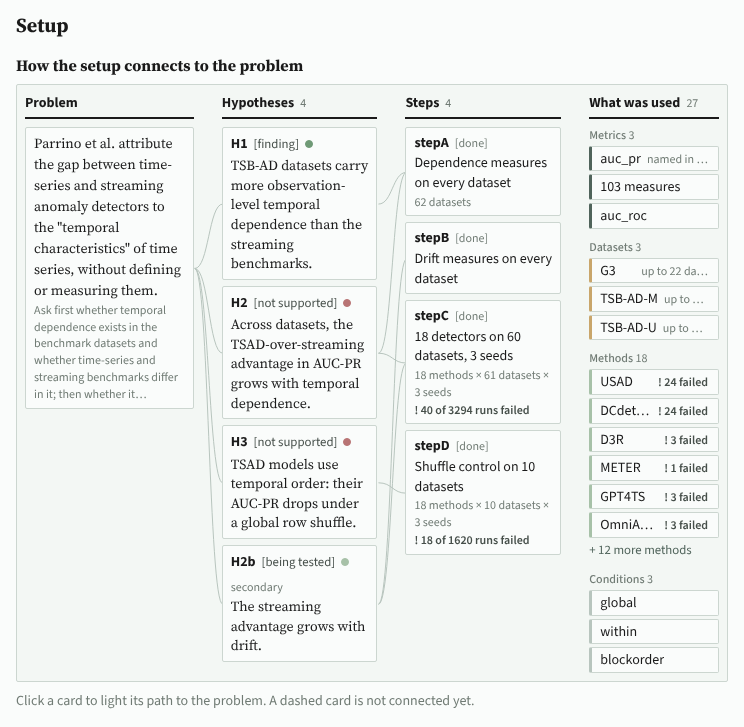
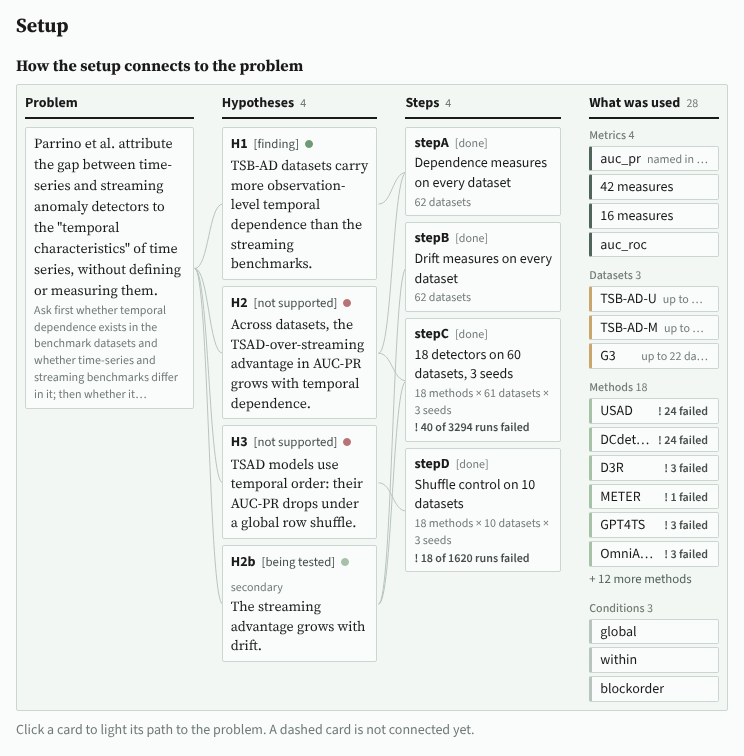
S28: the board reads compressed step tables and tidy measure columns
A step's .csv.gz / .tsv.gz deliverables are read as a stream (cut at 96 MB of text, flagged when cut).
A tidy table (a measure column beside a value column) gives the step its measure names.
Founder decisions 2026-11-18 18:22 KST: thesis-first columns kept; compressed tables read.

Claude-Session: https://claude.ai/code/session_01M9nCVFxZD6EZevdEtrvZnW

Changed region(s): [[0.0309, 0.0303, 0.9583, 0.9381], [0.0309, 0.9381, 0.6492, 0.9684], [0.5565, 0.6355, 0.7419, 0.7565]]

diff --git a/app/src/lemmata/web/research.js b/app/src/lemmata/web/research.js
@@ -1494,12 +1494,14 @@ function bdDetail(B, sel) {      // what the selected card is, in rows (an item 
     return h('section', { class: 'rx-x-sec su-detail' }, head(hf ? 'Step' : 'Experiment', bdXName(B, x), hf ? h('span', { class: 'tag' }, x.status) : SU_XTYPE[x.type] ? h('span', { class: 'tag' }, SU_XTYPE[x.type]) : null),
       h('div', { class: 'su-body' }, hf ? h('p', { class: 'su-ct' }, x.name) : null, h('div', { class: 'su-p' },
         row('Tests', cs.length ? cs.map(cBtn) : h('span', { class: 'rx-warn' }, '! No claim. What it uses does not reach the thesis yet.')),
-        U && U.rows ? row('Runs', h('span', null, plural(U.rows, dims.length ? 'run' : 'row') + (dims.length ? ': ' + dims.join(' × ') : '')), U.failed ? h('span', { class: 'rx-warn' }, '! ' + U.failed + ' marked failed in the result files') : null) : null,
+        U && U.rows && U.methods ? row('Runs', h('span', null, plural(U.rows, 'run') + ': ' + dims.join(' × ')), U.failed ? h('span', { class: 'rx-warn' }, '! ' + U.failed + ' marked failed in the result files') : null)
+          : U && U.datasets ? row('Covers', h('span', null, plural(U.datasets, 'dataset'))) : null,
         byKind(x.items),
         hf ? row('Writes', x.deliverables.length ? x.deliverables.map(d => /\.[a-z0-9]+$/i.test(d) && !/\.gz$/i.test(d) ? rxWhere({ path: d }, 'code') : h('span', { class: 'mono small' }, d)) : h('span', { class: 'muted small' }, 'nothing named yet')) : null,
         hf && x.depends_on.length ? row('Needs', x.depends_on.map(d => { const o = B.experiments.find(q => q.id === d); return o ? xBtn(o) : h('span', { class: 'mono small' }, d); })) : null,
-        hf && !x.items.length ? row('Used', h('span', { class: 'muted small' }, U && U.files ? 'Its tables name no method, dataset or metric column.' : 'No readable table among its result files (csv or tsv), so what it used is unknown.')) : null,
+        hf && !x.items.length ? row('Used', h('span', { class: 'muted small' }, U && U.files ? 'Its tables name no method, dataset or metric column.' : 'No readable table among its result files (csv or tsv, plain or .gz), so what it used is unknown.')) : null,
         hf && U && U.skipped ? row('', h('span', { class: 'muted small' }, plural(U.skipped, 'file') + ' too large to read.')) : null,
+        hf && U && U.partial ? row('', h('span', { class: 'muted small' }, plural(U.partial, 'compressed file') + ' read in part only (very large).')) : null,
         x.sheets.length ? row('Sheets', h('span', { class: 'muted small' }, plural(x.sheets.length, 'result-file sheet') + ' below ↓')) : null,
         hf ? null : row('', h('button', { class: 'btn sm', onclick: () => rxOpenExp(x.id) }, 'Open the experiment'))))); }
   const it = B.items.find(q => q.id === id), kind = BD_KIND[it.kind] || ['Items', 'item'], byX = new Map(B.experiments.map(x => [x.id, x]));

diff --git a/app/src/lemmata/engine/board.py b/app/src/lemmata/engine/board.py
@@ -7,12 +7,13 @@ setup connects to the thesis ... think of a kanban system"). Two sources, one sh
 
 - a paper project: the Setup document itself (claims, experiments and items it already holds) and the thesis text;
 - a hypothesis-first project: the problem, the hypotheses and the protocol's steps, and for each step what its own
-  result tables name (a "model" column, a "dataset" column, metric columns).
+  result tables name (a "model" column, a "dataset" column, metric columns; csv or tsv, plain or gzip).
 
 Rules only: no language model, nothing is run. A card that does not reach the thesis is kept and marked, because that
 gap is what the board is for.
 """
 import csv
+import gzip
 import io
 import re
 
@@ -22,6 +23,7 @@ from .hypo import rel
 SCHEMA = "lemmata.board/1"
 KINDS = ("metric", "dataset", "method", "condition")
 MAX_FILES, MAX_FILE, MAX_BYTES, MAX_NAMES = 120, 2_000_000, 24_000_000, 60
+MAX_GZ, MAX_GZ_TEXT = 12_000_000, 96_000_000      # a compressed table: its size on disk, and how much of its text is read
 
 # columns of a long result table (one row per run), by header name; the first one present wins
 METHOD_COLS = ("model", "method", "detector", "algorithm", "algo", "approach", "baseline", "learner", "classifier", "system")
@@ -29,6 +31,9 @@ DATASET_COLS = ("dataset", "benchmark", "task", "corpus", "source", "stream", "s
 GROUP_COLS = ("group", "suite", "collection", "benchmark", "family", "category", "domain")
 SEED_COLS = ("seed", "run", "trial", "rep", "repeat", "fold")
 COND_COLS = ("variant", "condition", "setting", "perturbation", "shuffle", "ablation")
+# a tidy table names its measures in one column and puts the numbers in another
+NAME_COLS = ("measure", "metric", "statistic", "stat", "metricname", "measurename")
+VALUE_COLS = ("value", "score", "val", "result")
 STATUS_COLS = ("status", "state")
 FAILED = {"error", "failed", "fail", "crashed", "oom", "timeout", "killed"}
 METRIC_RE = re.compile(
@@ -77,7 +82,31 @@ def _files_of(files, deliverables):
             listing = sorted(q for _, q in files.listing())
         pre = p.rstrip("/") + "/"
         out += [q for q in listing if q.startswith(pre)]
-    return [p for p in dict.fromkeys(out) if p.lower().endswith((".csv", ".tsv"))]
+    return [p for p in dict.fromkeys(out) if p.lower().endswith(TABLES)]
+
+
+TABLES = (".csv", ".tsv", ".csv.gz", ".tsv.gz")
+
+
+def _lines(raw, gz):
+    """The text lines of a table; a compressed one is read as a stream and cut at MAX_GZ_TEXT. -> (iterator, state)"""
+    state = {"partial": False}
+    if not gz:
+        return io.StringIO(raw.decode("utf-8", "replace")), state
+
+    def gen():
+        n = 0
+        try:
+            with gzip.open(io.BytesIO(raw), "rt", encoding="utf-8", errors="replace", newline="") as f:
+                for line in f:
+                    n += len(line)
+                    if n > MAX_GZ_TEXT:
+                        state["partial"] = True
+                        return
+                    yield line
+        except (OSError, EOFError):
+            state["partial"] = True
+    return gen(), state
 
 
 def _first(header, names):
@@ -88,7 +117,8 @@ def _first(header, names):
 def read_step(files, deliverables):
     """What one step's result tables name. -> {"methods": {name: {...}}, "datasets": {...}, "metrics": [...], ...}"""
     methods, datasets, conds, seeds, metrics, measures, cells = {}, {}, {}, set(), {}, {}, {}
-    rows_n = failed = read = skipped = total = 0
+    rows_n = failed = read = skipped = total = partial = 0
+    named = {}      # measures a tidy table names; when a step has them, they are its list (other tables' unnamed number columns are summaries of them)
     paths = _files_of(files, deliverables)
     for p in paths:
         rid, path = files.find(p)
@@ -99,17 +129,19 @@ def read_step(files, deliverables):
             size = t.size(path)
         except Exception:
             size = None
-        if size is None or size > MAX_FILE or read >= MAX_FILES or total + size > MAX_BYTES:
+        gz = path.lower().endswith(".gz")
+        if size is None or size > (MAX_GZ if gz else MAX_FILE) or read >= MAX_FILES or total + size > MAX_BYTES:
             skipped += 1
             continue
         try:
-            raw = t.read(path).decode("utf-8", "replace")
+            raw = t.read(path)
         except Exception:
             skipped += 1
             continue
         read += 1
         total += size
-        rd = csv.reader(io.StringIO(raw), dialect="excel-tab" if path.endswith(".tsv") else "excel")
+        lines, state = _lines(raw, gz)
+        rd = csv.reader(lines, dialect="excel-tab" if ".tsv" in path.lower() else "excel")
         try:
             header = [h.strip() for h in next(rd)]
         except (StopIteration, csv.Error):
@@ -117,11 +149,13 @@ def read_step(files, deliverables):
         idx = {h: i for i, h in enumerate(header)}
         mc, dc, sc, cc, stc = (_first(header, n) for n in (METHOD_COLS, DATASET_COLS, SEED_COLS, COND_COLS, STATUS_COLS))
         gc = _first([h for h in header if h != dc], GROUP_COLS)
+        nc, vc = _first(header, NAME_COLS), _first(header, VALUE_COLS)
+        tidy = nc is not None and vc is not None and nc not in (mc, dc)
         role = {mc, dc, sc, cc, stc, gc} - {None}
-        mcols = [h for h in header if h not in role and METRIC_RE.match(norm(h))]
-        ocols = [h for h in header if h not in role and h not in mcols]
+        mcols = [] if tidy else [h for h in header if h not in role and METRIC_RE.match(norm(h))]
+        ocols = [] if tidy else [h for h in header if h not in role and h not in mcols]
         got = lambda r, c: (r[idx[c]].strip() if c is not None and idx[c] < len(r) else "")
-        seen_num = set()
+        seen_num, todo, names = set(), mcols + ocols, set()
         try:
             for r in rd:
                 if not r:
@@ -130,9 +164,10 @@ def read_step(files, deliverables):
                 # one run = one (method, dataset, condition, seed); a failed attempt that was later repeated with success is not a failed run
                 key = (m, g, d, c, s) if (m or d) else ("row", path, tuple(r))
                 cells[key] = cells.get(key, False) or got(r, stc).lower() not in FAILED
-                for h in mcols + ocols:
-                    if h in seen_num:
-                        continue
+                if tidy:
+                    names.add(got(r, nc))
+                    continue
+                for h in todo:
                     v = got(r, h)
                     if v:
                         try:
@@ -140,14 +175,21 @@ def read_step(files, deliverables):
                         except ValueError:
                             continue
                         seen_num.add(h)
+                if seen_num and len(todo) != len(mcols) + len(ocols) - len(seen_num):
+                    todo = [h for h in todo if h not in seen_num]
         except csv.Error:
             pass
+        partial += state["partial"]
         for h in mcols:
             if h in seen_num:
                 metrics.setdefault(h, []).append(p)
         for h in ocols:
             if h in seen_num:
                 measures.setdefault(h, []).append(p)
+        for n in sorted(names - {""}):      # a tidy table: the measure names are the values of one column
+            (metrics if METRIC_RE.match(norm(n)) else named).setdefault(n, []).append(p)
+    if named:
+        measures = named
     plain = lambda k: k[0] == "row" and len(k) == 3
     keyed = any(not plain(k) for k in cells)        # runs are counted when the tables name them; plain rows only when none does
     for key, ok in cells.items():
@@ -176,7 +218,7 @@ def read_step(files, deliverables):
         if c:
             conds[c] = conds.get(c, 0) + 1
     return {"methods": methods, "datasets": datasets, "conditions": conds, "seeds": len(seeds), "metrics": metrics, "measures": measures,
-            "rows": rows_n, "failed": failed, "files": paths, "read": read, "skipped": skipped}
+            "rows": rows_n, "failed": failed, "files": paths, "read": read, "skipped": skipped, "partial": partial, "named": bool(named)}
 
 
 def from_hypothesis(H, files, S=None, used=None):
@@ -225,7 +267,7 @@ def from_hypothesis(H, files, S=None, used=None):
                     it["named_by"].append(h)
             use(it, x["id"], files=len(paths))
             ids.append(it["id"])
-        if not U["metrics"] and U["measures"]:
+        if U["measures"] and (not U["metrics"] or U.get("named")):      # number columns count only when nothing better is named; a tidy table's names always do
             n = len(U["measures"])
             it = item("metric", "measures of " + x["id"], named_by=[], names=sorted(U["measures"])[:MAX_NAMES], n=n, summary=True)
             it["name"] = "%d measure%s" % (n, "" if n == 1 else "s")
@@ -262,7 +304,7 @@ def from_hypothesis(H, files, S=None, used=None):
         exps.append({"id": x["id"], "name": x.get("title") or x["id"], "type": "step", "status": _status_word(x.get("status")), "claims": [h for h in tests[x["id"]] if h in hid],
                      "items": list(dict.fromkeys(ids)), "sheet": False, "sheets": sheets.get(x["id"], []), "deliverables": list(x.get("deliverables") or []),
                      "depends_on": list(x.get("depends_on") or []), "acceptance": x.get("acceptance"),
-                     "used": {"methods": len(U["methods"]), "datasets": len(D), "seeds": U["seeds"], "rows": U["rows"], "failed": U["failed"], "files": U["read"], "skipped": U["skipped"],
+                     "used": {"methods": len(U["methods"]), "datasets": len(D), "seeds": U["seeds"], "rows": U["rows"], "failed": U["failed"], "files": U["read"], "skipped": U["skipped"], "partial": U.get("partial", 0),
                               "conditions": sorted(U["conditions"])[:12]},
                      "attention": bool(U["failed"])})
     for it in items.values():

diff --git a/app/tests/test_hypo.py b/app/tests/test_hypo.py
@@ -272,6 +272,23 @@ class HypoTest(unittest.TestCase):
         self.assertEqual((I["metric:measuresofstepa"]["name"], I["metric:measuresofstepa"]["names"]), ("1 measure", ["x"]))
         self.assertEqual(sorted(c["id"] for c in B["claims"] if not c["experiments"]), ["H2b", "H8"])      # gaps are kept, and counted
         self.assertEqual((B["counts"]["claims_untested"], B["counts"]["experiments_no_claim"]), (2, 0))
+        # a compressed, tidy table (one row per dataset and measure) is read too: its measure names are the step's measures
+        import gzip
+        tidy = "measure,value,series,group,source\n" + "".join("%s,0.1,s%d,%s,%s\n" % (m, i, g, d) for m in ("acf1", "hurst", "auc_pr") for i, (g, d) in enumerate((("TS", "a0"), ("TS", "a1"), ("Stream", "b0"))))
+        (self.code / "results" / "A_long.csv.gz").write_bytes(gzip.compress(tidy.encode()))
+        git(self.code, "add", "-A")
+        git(self.code, "commit", "-q", "-m", "long table", date="2026-11-17T11:00:00+0900")
+        self.e.scan()
+        from lemmata.engine import hypo
+        doc = hypo.load(self.e.hub)
+        next(x for x in doc["experiments"] if x["id"] == "stepA")["deliverables"].append("results/A_long.csv.gz")
+        self.e.hub.write_json("hypothesis.json", doc)
+        B = self.e.setup()["board"]
+        X = {x["id"]: x for x in B["experiments"]}
+        I = {i["id"]: i for i in B["items"]}
+        self.assertEqual((X["stepA"]["used"]["datasets"], X["stepA"]["used"]["files"], X["stepA"]["used"]["partial"]), (3, 2, 0))
+        self.assertEqual((I["metric:measuresofstepa"]["name"], I["metric:measuresofstepa"]["names"]), ("2 measures", ["acf1", "hurst"]))      # not "x": the tidy names are the list
+        self.assertEqual(I["metric:aucpr"]["experiments"], ["stepA", "stepC"])
         # an archived hypothesis leaves the board; a step that then tests nothing is a gap
         self.e.hypothesis_act("delete", "H2")
         B = self.e.setup()["board"]

diff --git a/wiki/sprints/S28/S28-01-handoff.md b/wiki/sprints/S28/S28-01-handoff.md
@@ -26,7 +26,7 @@ the thesis, in the manner of a kanban board. Built from the chat session. Branch
     and an experiment with no claim are kept and counted (`counts.claims_untested`, `experiments_no_claim`,
     `items_unreached`).
   - *Hypothesis-first project* (once a hypothesis or a step exists): problem, live hypotheses, the protocol's
-    steps. For each step, "what was used" is read from its own deliverable tables (csv, tsv) by column name:
+    steps. For each step, "what was used" is read from its own deliverable tables (csv or tsv, plain or `.gz`) by column name:
     a method column (`model`, `method`, `detector` …), a dataset column (`dataset`, `source` …), a suite
     column (`group`, `suite` …), `seed`, a condition column (`variant` …), `status`, and metric columns with a
     known metric name (`auc_pr`, `f1` …).
@@ -34,6 +34,10 @@ the thesis, in the manner of a kanban board. Built from the chat session. Branch
       once; a failed attempt that was repeated with success is not a failed run.
     - More than 8 datasets with a suite column: one card per suite (e.g. `TSB-AD-U`, up to 23 datasets).
     - No known metric name: one card "N measures" listing the numeric columns.
+    - A tidy table (a `measure` column beside a `value` column): the measure names are that column's values. When a
+      step has such a table, those names are its measures, and other tables' unnamed number columns are not added.
+    - A compressed table up to 12 MB on disk is read as a stream, up to 96 MB of text; beyond that the step panel
+      says it was read in part.
     - A metric named in a hypothesis's statement or test is marked "named in H2, H3".
     - Each step also lists the Setup sheets (result files) under its deliverables.
 - **Web: the board is the first thing on Setup** (`bdBoard` in `web/research.js`, styles in `app.css`).
@@ -62,22 +66,25 @@ No new extension version. Checked at 760 px and 420 px in a browser; not checked
   confirmed there.**
   - Step C: 3,294 runs = 18 methods × 61 datasets × 3 seeds, 40 marked failed (matches `results/C_cells.csv`).
   - Step D: 1,620 runs, 18 failed, conditions blockorder, global, within (matches `results/D_cells.csv`).
-  - Step A: 62 sources in three suites (22, 17, 23), 103 measures, no named metric.
-  - Step B: nothing read. Its only deliverable is `B_drift.csv.gz`, and compressed tables are not read.
+  - Step A: 62 sources in three suites (22, 17, 23), 42 measures (the `measure` column of `A_dependence.csv.gz`).
+  - Step B: 62 sources in the same three suites, 16 measures, read from `B_drift.csv.gz` (decided by Juhyeong,
+    18:22 KST: compressed step tables are read).
+  - Reading the two compressed tables (47 MB and 9 MB of text) adds about 1 s, once per scan.
 - The mapped synthetic project of `test_map.py` (paper project, 3 claims, 4 experiments, 10 items) and the sample
   project (one claim with no experiment, one experiment with no claim: both dashed).
 - Tests: `test_map.MapTest.test_board`, `test_hypo.HypoTest.test_board_from_the_steps_tables`. Full suite: 195 OK
-  (2 skipped). No console errors at 1280, 760 and 420 px.
+  (2 skipped), also after the compressed-table change. No console errors at 1280, 760 and 420 px.
 
 ## Screenshots
 - [Hypothesis-first project, nothing selected](screenshots/board-hypothesis-first.png)
 - [A step selected](screenshots/board-step-selected.png) · [a metric selected](screenshots/board-metric-selected.png)
+  · [Step B, read from a compressed table](screenshots/board-step-b-compressed.png)
 - [Paper project, a dataset selected](screenshots/board-paper-dataset-selected.png)
 - [760 px](screenshots/board-vscode-medium.png) · [420 px, stacked](screenshots/board-vscode-narrow.png)
 
 ## Not built
 - Drag and drop. The cards are read from the files; moving one would have to change a claim–experiment link.
-- Reading `.gz`, `.json` or `.parquet` step tables.
+- Reading `.json` or `.parquet` step tables.
 - The board in the MCP `setup` tool (it still lists the per-file items).
 - In a hypothesis-first project, an item's paper and code lines (the item panel shows its use per step only).
 
@@ -88,6 +95,5 @@ No new extension version. Checked at 760 px and 420 px in a browser; not checked
 - Check the S18 contrast of the dimmed cards (opacity 0.4).
 
 ## Needs Juhyeong's decision
-- Whether the columns should run thesis → used (as built) or used → thesis.
-- Whether a step with only compressed tables should be read (Step B).
+- Decided 2026-11-18 18:22 KST: the columns stay thesis first; compressed step tables are read.
 - Merge to main.

diff --git a/wiki/log.md b/wiki/log.md
@@ -90,3 +90,4 @@ date | agent | operation | files touched | note
 2026-11-17 | lead (chat) | build | app/src/lemmata/{engine/{hypo,api}.py,server.py,mcp.py,hub/{projects,routes}.py,web/{research.js,app.css}}, app/tests/{test_hypo,test_hub,test_mcp}.py, wiki/design/screens/S27-hypothesis-first.md, wiki/sprints/S27/, wiki/index.md | Founder (11:08-12:25 KST): hypothesis-first mode; the AI states the problem and the researcher validates it; Confirm, Fix, Delete, Combine, Tell; new input comprehended by the researcher's own LLM and applied on acceptance; stage from the project's test table; tracked branch. Steps 1-7 built, 8 partly, 9 website only, 10 partly, 11-13 not built. 193 tests OK. Needs QA.
 2026-11-17 | lead (chat) | build | app/src/lemmata/web/research.js, wiki/sprints/S27/{S27-01-handoff.md,screenshots/s27-vscode-width.png} | Founder (13:05 KST) asked whether S27 reaches the VS Code extension: the tab loads the hub's page, so yes once the hub runs the branch; fixed duplicate hypothesis rows on Thesis and the job/proposal links (project path). Native sidebar unchanged. Needs QA.
 2026-11-18 | lead (chat) | build | app/src/lemmata/{engine/{board,api}.py,web/{research.js,app.css}}, app/tests/{test_map,test_hypo}.py, docs/map/README.md, wiki/sprints/S28/, wiki/index.md | Founder (17:06 KST): a flowchart at the top of Setup, kanban-style, to see how the setup connects to the thesis. Four columns of cards (thesis or problem, claims, experiments or steps, what was used); click a card to light its path; dashed cards are not connected. Hypothesis-first projects read what was used from each step's own result tables. 195 tests OK. Needs QA.
+2026-11-18 | lead (chat) | build | app/src/lemmata/{engine/board.py,web/research.js}, app/tests/test_hypo.py, wiki/sprints/S28/ | Founder (18:22 KST): thesis-first columns kept; compressed step tables are read. The board reads .csv.gz and .tsv.gz step tables as a stream and takes a tidy table's measure names from its measure column, so Step B of temporal_dependency shows 62 sources and 16 measures. 195 tests OK. Needs QA.
